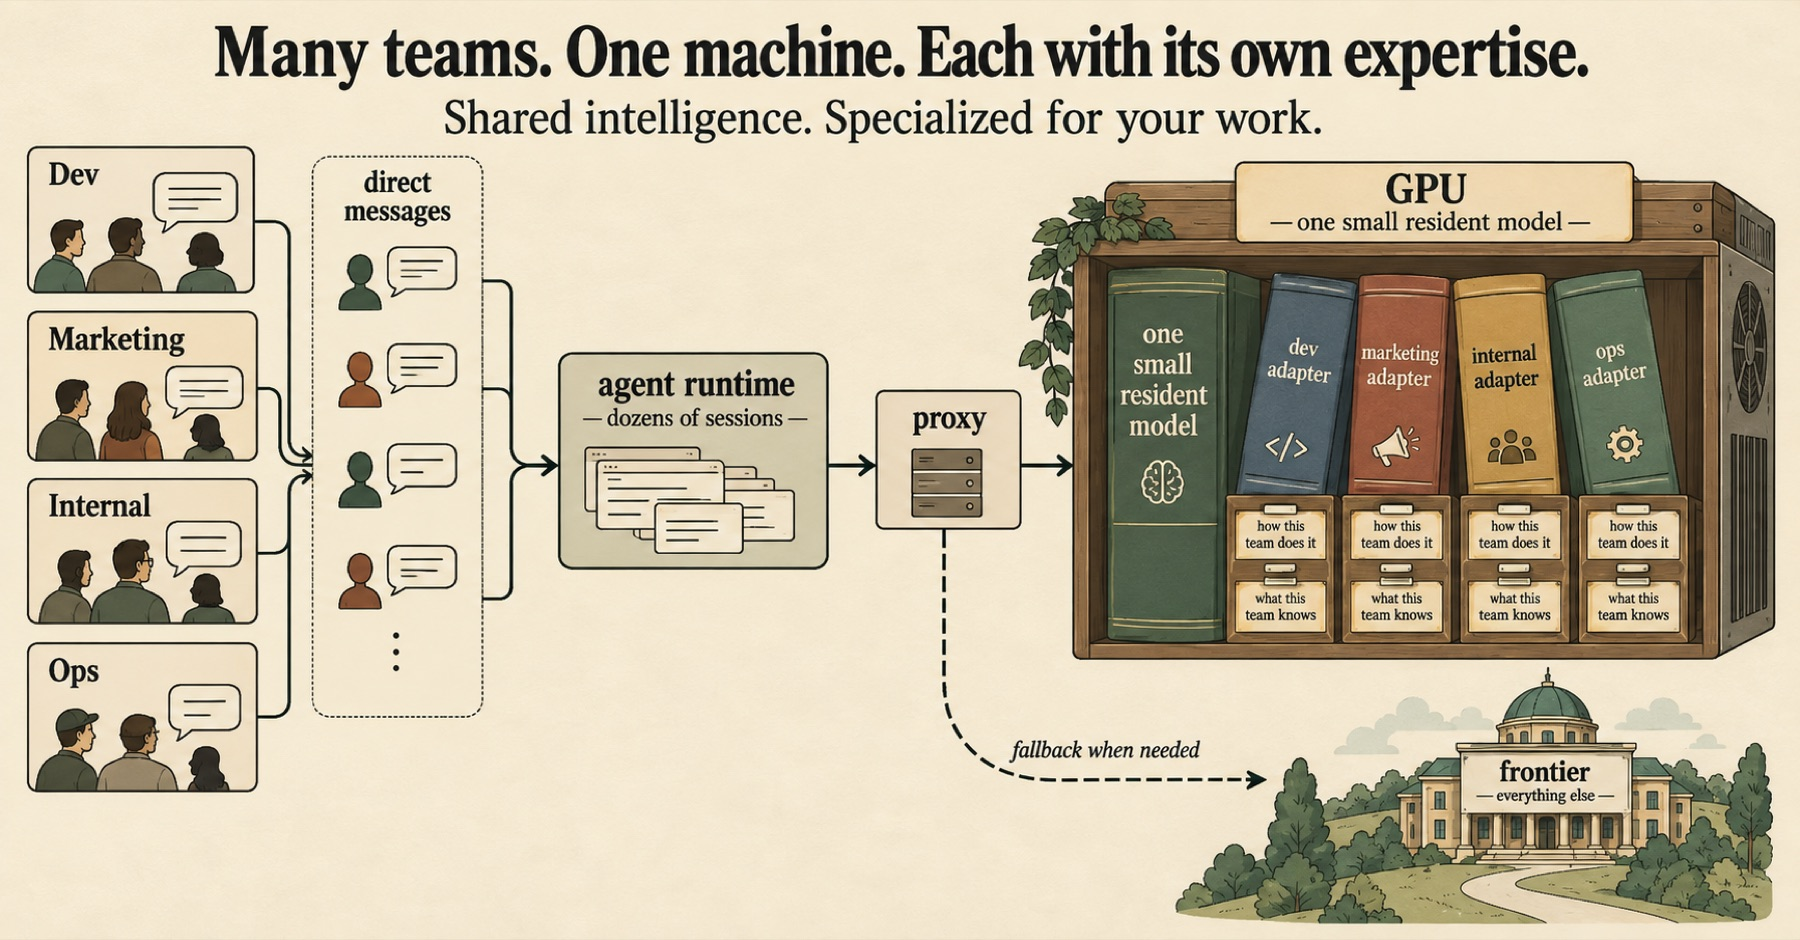
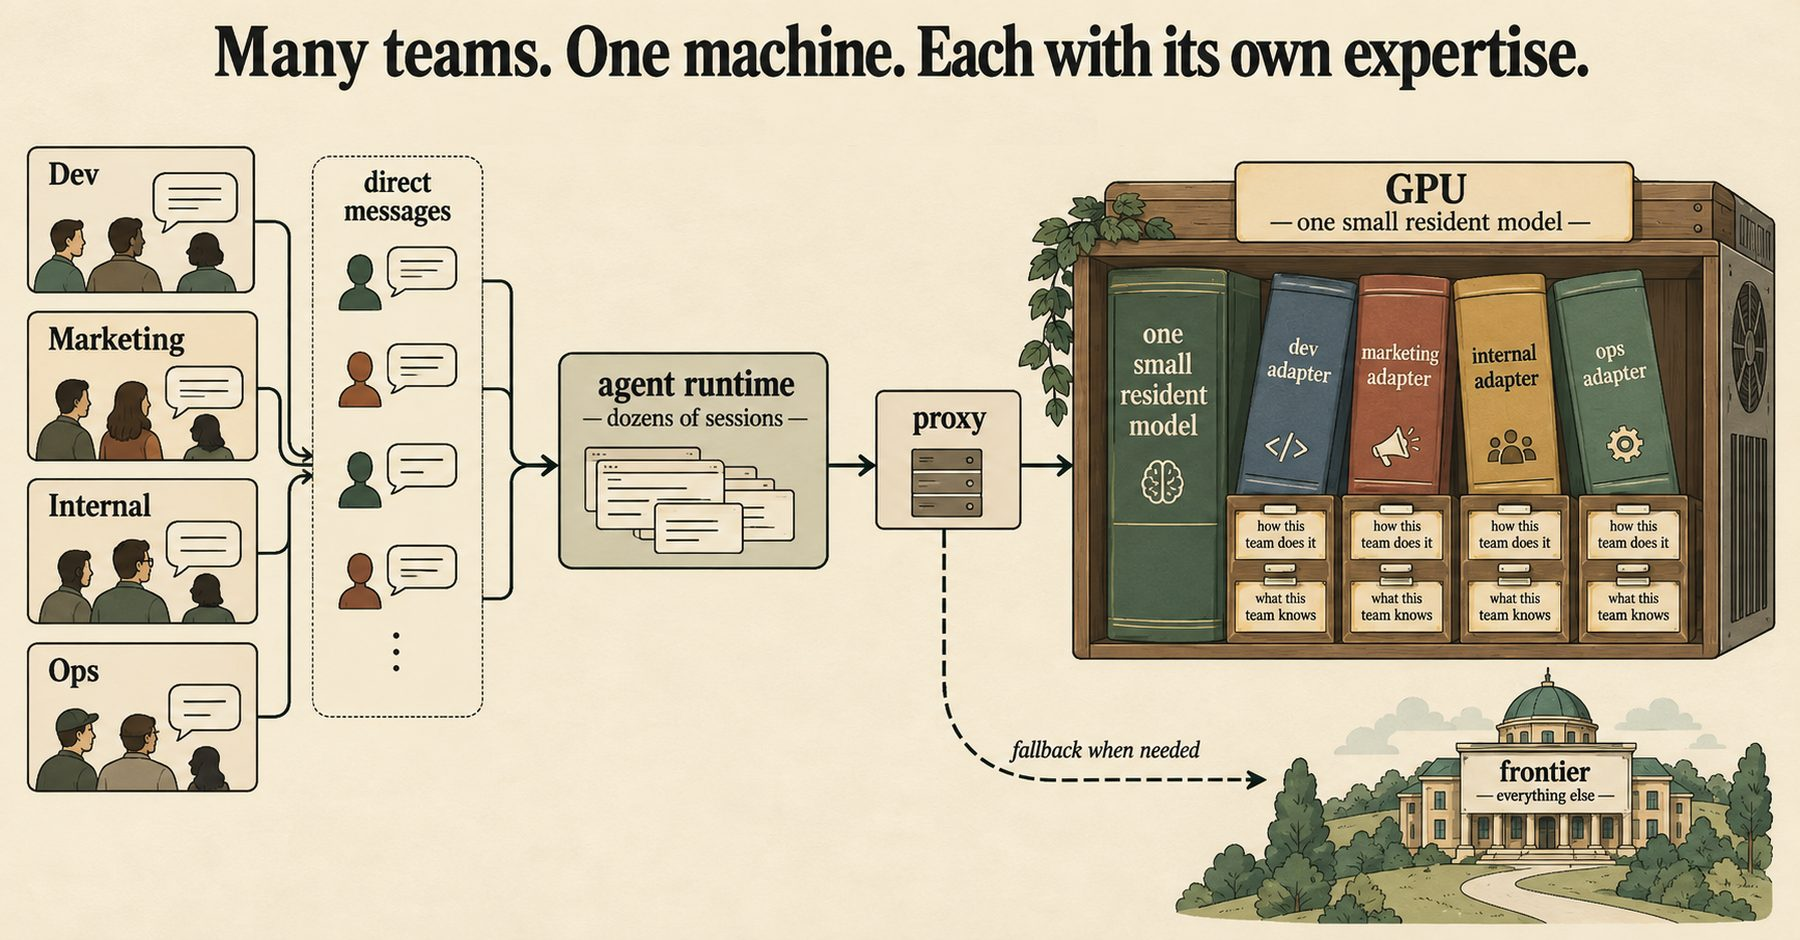
home: ship the three-projects plate; drop the slogan from article-team
The lab plate (generated from images/lab/IMAGES.md) goes in at the end of #projects;
its alt text now describes what was drawn (no reader at the cabinet). article-team.jpg
loses its 'Shared intelligence. Specialized for your work.' subtitle: the line was
painted over with the plate's own background, everything else is pixel-identical.

diff --git a/index.html b/index.html
@@ -126,14 +126,12 @@
           does not pick which to validate first.</p>
       </article>
     </div>
-    <!-- IMAGE PLACEHOLDER — see images/lab/IMAGES.md. Uncomment once assets/img/lab/three-projects.jpg exists.
     <figure class="plate">
       <img src="/assets/img/lab/three-projects.jpg" width="1800" height="720"
-           alt="Three workbenches in one long room. On the left a reader at a card-catalogue cabinet with a small radar lamp; in the middle a brass machine whose paper ledger carries wax seals that change colour at a swapped gear; on the right a naturalist's bench with a printed report tied by red threads to pinned evidence cards. A solid green cord joins the first two benches; two dashed ochre chalk lines lead from the third bench to the other two.">
+           alt="Three workbenches in one long room. On the left a card-catalogue cabinet, three of its drawers lit by a small brass radar dish; in the middle a brass machine whose paper ledger carries wax seals that change colour at a swapped gear; on the right a naturalist's bench with a printed report tied by red threads to pinned evidence cards. A solid green cord joins the first two benches; two dashed ochre chalk lines lead from the third bench to the other two.">
       <figcaption>Three benches, one room: lora-kernel, agentvcs, gene-evidence. The solid cord exists today; the
         dashed lines are planned.</figcaption>
     </figure>
-    -->
   </section>
 
   <section id="connections">
